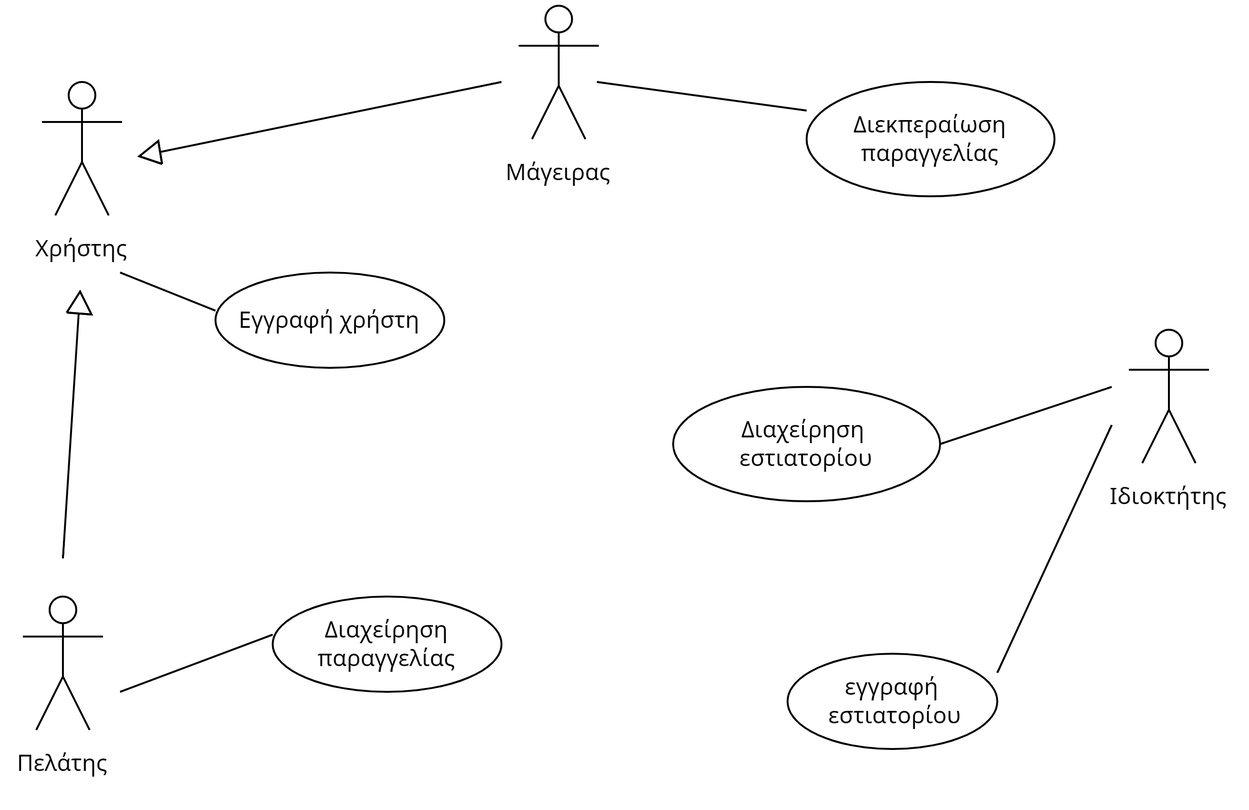
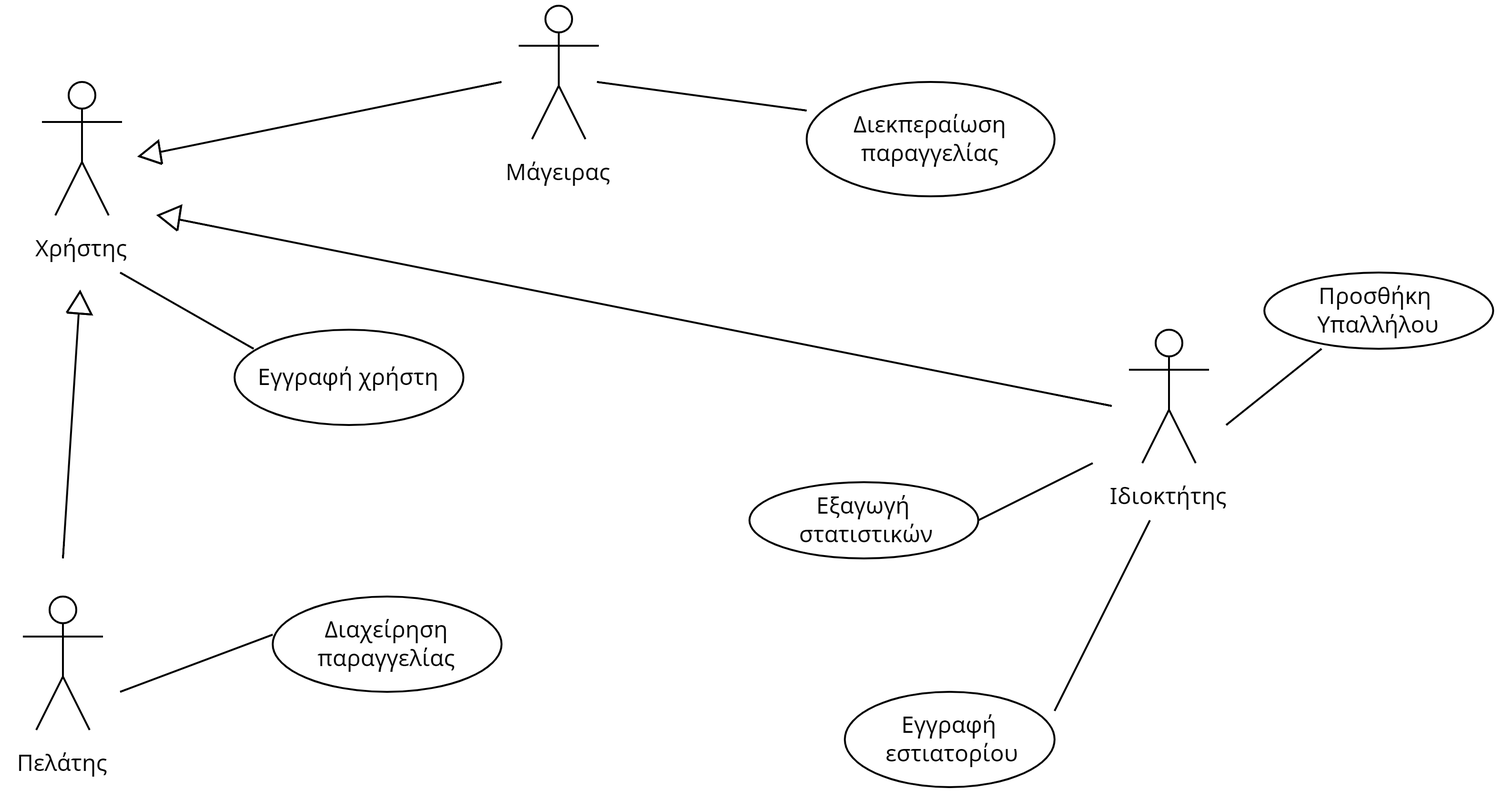
New changes on R2 domain model,usecase descriptiom and activity diagrams

diff --git a/docs/markdown/R2_use_cases_descriptions.md b/docs/markdown/R2_use_cases_descriptions.md
@@ -12,27 +12,19 @@
 
 <br/>
 
-## ***Προϋποθέσεις* :** Ο ιδιοκτήτης να έχει πρόσβαση στην εφαρμογή και να έχει τα απαραίτητα στοιχεία για την εγγραφή του εστιατορίου.
+## ***Προϋποθέσεις* :** Ο ιδιοκτήτης να είναι συνδεδεμένος στην εφαρμογή και να έχει τα απαραίτητα στοιχεία για την εγγραφή του εστιατορίου.
 
 <br/>
 
 ## ***Βασική Ροή :***
 
-## 1. Ο ιδιοκτήτης κατεβάζει την εφαρμογή εστιατορίου στην συσκευή του.
+## 1. Ο ιδιοκτήτης ανοίγει την εφαρμογή διαχείρησης εστιατορίου.
+## 2. Ο ιδιοκτήτης καταχωρεί τα στοιχεία του εστιατορίου του ( τηλέφωνο εστιατορίου , διεύθυνση, όνομα εστιατορίου, τηλέφωνο).
 
-## 2. Ο ιδιοκτήτης καταχωρεί τα προσωπικά του στοιχεία (username, ονοματεπώνυμο, τηλέφωνο, email).
+## 3. Ο ιδιοκτήτης "πατάει" την επιλογή επιβεβαίωση στοιχείων.
+## 4. Ο ιδιοκτήτης καταχωρεί τις επιλογές πιάτων και τις αντίστοιχες τιμές τους μέσα στο μενού του εστιατορίου του.
 
-## 3. Ο ιδιοκτήτης καταχωρεί τα στοιχεία του τραπεζικού του λογαριασμού για τα έσοδα του εστιατορίου.
-
-## 4. Ο ιδιοκτήτης καταχωρεί τα στοιχεία του εστιατορίου του ( τηλέφωνο εστιατορίου , διεύθυνση, όνομα εστιατορίου κτλ)
-
-## 5. Ο ιδιοκτήτης καταχωρεί τις επιλογές πιάτων και τις αντίστοιχες τιμές τους μέσα στο μενού του εστιατορίου του.
-
-## 6. Ο ιδιοκτήτης καταχωρεί τα διαθέσιμα τραπέζια του εστιατορίου.
-
-## 7. Το σύστημα δημιουργεί τα κατάλληλα QR codes για κάθε τραπέζι.
-
-## 8. Ο ιδιοκτήτης εκτυπώνει το κατάλληλο QR code για κάθε τραπέζι και τα τοποθετεί στα αντίστοιχα τραπέζια του εστιατορίου.
+## 5. Ο ιδιοκτήτης καταχωρεί τα διαθέσιμα τραπέζια του εστιατορίου.
 
 <br/>
 
@@ -50,37 +42,24 @@
 >
 > ## 2. Επαναλαμβάνεται το βήμα 2.
 
-## 3α Δεν έχουν δωθεί σωστά  στοιχεία τραπεζικού λογαριασμού.
-
-> ## 1. Το σύστημα εμφανίζει το κατάλληλο μήνυμα σφάλματος.
-
-> ## 2. Επαναλαμβάνεται το βήμα 3.
-
-## 4α Δεν έχει συμπληρωθεί κάποιο από τα υποχρεωτικά στοιχεία του εστιατορίου του.
-
-> ## 1. Το σύστημα εμφανίζει το κατάλληλο μήνυμα σφάλματος.
-
-> ## 2. Επαναλαμβάνεται το βήμα 4.
-
 <br/>
 <br/>
 <br/>
 <br/>
 <br/>
 
-# ***Τίτλος περίπτωσης χρήσης*:** Διαχείρηση εστιατορίου
+# ***Τίτλος περίπτωσης χρήσης*:** Προοσθήκη Υπαλλήλου
 
 <br/>
 
 ## ***Πρωτεύων Actor* :** Ιδιοκτήτης
 
-## ***Ενδιαφερόμενοι* :** Ιδιοκτήτης: Θέλει να μπορεί να διαχειρίζεται εύκολα την εφαμοργή του εστιατορίου, να προσθέτει τους υπαλλήλους του στο σύστημα και να μπορεί να βλέπει τα στατιστικά του εστιατορίου του.
+## ***Ενδιαφερόμενοι* :** Ιδιοκτήτης: Θέλει να μπορεί να προσθέτει εύκολα  τους υπαλλήλους του στο σύστημα του εστιατορίου. 
 ## Μάγειρας: Θέλει να μπορεί ο ιδιοκτήτης να βρεί τον λογαριασμό του για να μπορεί να τον προσθέσει στο σύστημα και να βλέπει τις παραγγελίες.
 
-## ***Προϋποθέσεις* :** Ο ιδιοκτήτης να έχει κάνει είσοδο στην εφαρμογή. Επίσης οι υπάλληλοι να έχουν κάνει εγγραφή στην εφαρμογή και ο ιδιοκτήτης να γνωρίζει τα στοιχεία τους για να τους προσθέσει στο σύστημα.
-# **Α) Προσθήκη υπαλλήλου**
-## ***Βασική ροή* :**
+## ***Προϋποθέσεις* :** Ο ιδιοκτήτης να έχει συνδεθεί στην εφαρμογή. Επίσης οι υπάλληλοι να έχουν κάνει εγγραφή στην εφαρμογή και ο ιδιοκτήτης να γνωρίζει τα στοιχεία τους για να τους προσθέσει στο σύστημα.
 
+## ***Βασική ροή* :**
 ## 1. Ο ιδιοκτήτης επιλέγει την επιλογή “Προσθήκη υπαλλήλου” στην εφαρμογή.
 
 ## 2. Ο ιδιοκτήτης εισάγει τα στοιχεία του νέου υπαλλήλου για να τον αναζητήσει (όνομα, επώνυμο, ΑΦΜ κλπ.).
@@ -104,27 +83,34 @@
 > ## 1. Το σύστημα εμφανίζει το κατάλληλο μήνυμα σφάλματος στον ιδιοκτήτη.
 
 > ## 2. Επαναλαμβάνεται το βήμα 2.
-
-## 3α. Αν ο ιδιοκτήτης αλλάξει γνώμη και δεν θέλει να προσθέσει τον νέο υπάλληλο, μπορεί να ακυρώσει τη διαδικασία προσθήκης υπαλλήλου.
-
-> ## 1.  Η ροή επιστρέφει στο βήμα 1.
-
 ## Για κάθε νέα προσθήκη υπαλλήλου από τον ιδιοκτήτη επαναλαμβάνεται το βήμα 1.
 
 <br/>
+<br/>
+<br/>
+<br/>
+<br/>
 
-# **B) Πρόσβαση σε στατιστικά στοιχεία**
+
+# ***Τίτλος περίπτωσης χρήσης* :** Εξαγωγή στατιστικών στοιχείων
+
+<br/>
+
+## **Πρωτεύων Actor* :** Ιδιοκτήτης
+
+## **Ενδιαφερόμενοι* :** Ιδιοκτήτης: Θέλει να μπορεί να παράγει ανά πάσα στιγμή τα στατιστικά του εστιατορίου του και να έχει πρόσβαση σε αυτά.
+
+## ***Προϋποθέσεις* :** Ο ιδιοκτήτης να έχει συνδεθεί στην εφαρμογή και να έχουν εισαχθεί τα δεδομένα για την παραγωγή των στατιστικών
+
 ## ***Βασική ροή* :**
+# **Α) Υπολογισμός μηνιαίων και ετήσιων εσόδων**
+## 1. Ο ιδιοκτήτης επιλέγει την επιλογή “Εξαγωγή στατιστικών στοιχείων”.
 
-## 1. Ο ιδιοκτήτης συνδέεται στην εφαρμογή.
+## 2. Η εφαρμογή ανακτά τα δεδομένα από το σύστημα με τις παραγγελίες.
 
-## 2. Ο ιδιοκτήτης επιλέγει την επιλογή “Πρόσβαση σε στατιστικά στοιχεία”.
 
-## 3. Η εφαρμογή ανακτά τα δεδομένα από το σύστημα με τις παραγγελίες.
 
-## 4. Η εφαρμογή υπολογίζει τα μηνιαία και τα ετήσια έσοδα, τον μέσο όρο εξόδων που κάνει κάθε πελάτης, τον μέσο όρο ημερησίων εσόδων και το ποσοστό ακυρωμένων παραγγελιών.
-
-## 5. Το σύστημα παρουσιάζει τα αποτελέσματα στην οθόνη του ιδιοκτήτη.
+## 4. Το σύστημα παρουσιάζει τα αποτελέσματα στην οθόνη του ιδιοκτήτη.
 
 ## ***Εναλλακτική ροή* :**
 
@@ -132,11 +118,12 @@
 
 > ## 1. Το σύστημα θα του ζητήσει να κάνει είσοδο πριν προχωρήσει στην πρόσβαση των στατιστικών στοιχείων και θα επαναληφθεί το βήμα 1.
 
-## 3α. Υπάρχει πρόβλημα με την ανάκτηση των δεδομένων από το σύστημα
 
-> ## 1. Το σύστημα θα εμφανίσει μήνυμα λάθους.
->
-> ## 2. Το σύστημα θα επιστρέφει στο βήμα 2.
+# **Β)Υπολογισμός του μέσου όρου εξόδων που κάνει κάθε πελάτης**
+
+# **Γ)Υπολογισμός του μέσου όρου ημερησίων εσόδων**
+
+# **Δ)Υπολογισμός του ποσοστού ακυρωμένων παραγγελιών**
 
 <br/>
 <br/>
@@ -154,57 +141,29 @@
 
 ## Μάγειρας : Θέλει να μπορεί να λαμβάνει έγκαιρα τις παραγγελίες από τους πελάτες.
 
-## ***Προϋποθέσεις* :** Ο πελάτης να έχει δημιουργήσει λογαριασμό στην εφαρμογή.
+## ***Προϋποθέσεις* :** Ο πελάτης να έχει συνδεθεί στην εφαρμογή.
 # **Α) Υποβολή Παραγγελίας**
 ## ***Βασική ροή* :**
+## 1. Ο πελάτης ανακατευθείνεται στην σελίδα παραγγελιών.
+## 2. Ο πελάτης επιλέγει την "προσθήκη παραγγελίας" (κουμπι '+') στην σελίδα παραγγελιών.
+## 3. Το σύστημα εμφανίζει το μενού του καταστήματος με τις επιλογές πιάτων και τις αντίστοιχες τιμές τους.
 
-## 1. Ο πελάτης συνδέεται στην εφαρμογή με τα προσωπικά του στοιχεία.
+## 4. Ο πελάτης επιλέγει τα πιάτα που θέλει και δηλώνει την ποσότητα για κάθε πιάτο.
 
-## 2. Ο πελάτης ανακατευθείνεται στην σελίδα παραγγελιών.
+## 5. Ο πελάτης επιλέγει την επιλογή "υποβολή παραγγελίας" κατέχοντας το απαραίτητο χρηματικό ποσό.
 
-## 3. Ο πελάτης επιλέγει την "προσθήκη παραγγελίας" (κουμπι '+') στην σελίδα παραγγελιών.
-
-## 4. Ο πελάτης ανακατευθείνεται στη σελίδα σάρωσης QR code.
-
-## 5. Ο πελάτης σκανάρει το QR code που βρίσκεται στο τραπέζι με το κινητό του τηλέφωνο.
-
-## 6. Το σύστημα εμφανίζει το μενού του καταστήματος με τις επιλογές πιάτων και τις αντίστοιχες τιμές τους.
-
-## 7. Ο πελάτης επιλέγει τα πιάτα που θέλει και δηλώνει την ποσότητα για κάθε πιάτο.
-
-## 8. Ο πελάτης επιλέγει την επιλογή "υποβολή παραγγελίας" κατέχοντας το απαραίτητο χρηματικό ποσό.
-
-## 9. Ενημέρωση επιτυχής υποβολής της παραγγελίας.
+## 6. Ενημέρωση επιτυχής υποβολής της παραγγελίας.
 
 </br>
 
-## Για καθε παραγγελία που υποβάλεται από τον πελάτη επαναλαμβάνεται το βήμα 2.
+## Για καθε παραγγελία που υποβάλεται από τον πελάτη επαναλαμβάνεται το βήμα 1.
 
 </br>
 
 ## ***Εναλλακτική ροή* :**
-
-## 1α. Ο πελάτης δεν έχει εισάγει όλα τα απαραίτητα στοιχεία για να συνδεθεί στην εφαρμογή.
-
-> ## 1. Εμφανίζεται μήνυμα λάθους στην οθόνη του πελάτη
->
-> ## 2. Επαναλαμβάνεται το βήμα 1.
-
-## 1β. Ο πελάτης  έχει εισάγει λανθασμένα στοιχεία για να συνδεθεί στην εφαρμογή.
-
-> ## 1. Εμφανίζεται μήνυμα λάθους στην οθόνη του πελάτη
->
-> ## 2. Επαναλαμβάνεται το βήμα 1.
-
-## 5α. Σφάλμα κατά την διαδικασία σάρωσης του QR code από το κινητό του πελάτη.
-
-> ## 1. Εμφανίζεται μήνυμα λάθους στην οθόνη του πελάτη.
->
-> ## 2. Επαναλαμβάνεται το βήμα 2.
-
-## 8α. Ο πελάτης δεν κατέχει το απαραίτητο χρηματικό ποσό της παραγγελίας που θέλει να υποβάλλει.
+## 5α. Ο πελάτης δεν κατέχει το απαραίτητο χρηματικό ποσό της παραγγελίας που θέλει να υποβάλλει.
 > ## 1. Εμφανίζεται ένα μήνυμα που τον ειδοποιεί για το μη επαρκές χρηματικό ποσό που διαθέτει.
-> ## 2. Ο πελάτης επιστρέφει στο βήμα 2.
+> ## 2. Ο πελάτης επιστρέφει στο βήμα 3.
 
 <br/>
 
@@ -254,9 +213,11 @@
 
 <br/>
 
-## ***Πρωτεύων Actor* :** Χρήστης (Μάγειρες και πελάτες)
+## ***Πρωτεύων Actor* :** Χρήστης (Μάγειρες , πελάτες και ιδιοκτήτης)
 
 ## ***Ενδιαφερόμενοι* :**
+
+## Ιδιοκτήτης: Θέλει να έχει έναν λογαριασμό για να μπορέσει στην συνέχεια να διαχειριστεί το εστιατόριό του και να το εγγράψει στην εφαρμογή.
 
 ## Πελάτης: Θέλει να έχει ένα λογαριασμό ετσι ώστε να μπορεί να χρησιμοποιήσει την εφαρμογή.
 
@@ -327,8 +288,23 @@
 >
 > ## 2. Επαναλαμβάνεται το βημα 5.
 
+# **Γ)Εγγραφή ιδιοκτήτη**
+## ***Βασική ροή* :**
+
+
+
+
+
+
+
+
+
 <br/>
 <br/>
+
+# **Δ)Σύνδεση χρήστη στην εφαρμογή**
+## ***Βασική ροή* :**
+
 
 # ***Τίτλος περίπτωσης χρήσης*:** Διεκπεραίωση παραγγελίας
 
@@ -342,49 +318,33 @@
 
 ## Μάγειρας : Θέλει να διεκπαιρεώνει την παραγγελία σε συγκεκριμένο αριθμό βημάτων.
 
-## ***Προϋποθέσεις* :** Ο μάγειρας έχει λογαριασμό και η εφαρμογή ενημερώνει τον μάγειρα για τις νέες παραγγελίες.
+## ***Προϋποθέσεις* :** Ο μάγειρας έχει συνδεθεί στην εφαρμογή και η εφαρμογή ενημερώνει τον μάγειρα για τις νέες παραγγελίες.
 
 ## ***Βασική ροή* :**
+## 1. Ο μάγειρας ανακατευθύντεται στην σελίδα παραγγελιών.
 
-## 1. Ο μάγειρας πραγματοποιεί σύνδεση στην εφαρμογή.
+## 2. Ο μάγειρας ενημερώνεται για την νέα παραγγελία (κατάσταση παραγγελίας: έχει ληφθεί).
 
-## 2. Ο μάγειρας ανακατευθύντεται στην σελίδα παραγγελιών.
+## 3. Ο μάγειρας διαλέγει την επιλογή "επιλογή παραγγελίας" όταν ξεκινάει να την ετοιμάζει (κατάσταση παραγγελίας: ετοιμάζεται).
 
-## 3. Ο μάγειρας ενημερώνεται για την νέα παραγγελία (κατάσταση παραγγελίας: έχει ληφθεί).
+## 4. Ο μάγειρας διαλέγει την επιλογή "ολοκλήρωση ετοιμασίας παραγγελίας" όταν ολοκληρώνει την ετοιμασία της παραγγελίας (κατάσταση παραγγελίας: έτοιμη).
 
-## 4. Ο μάγειρας διαλέγει την επιλογή "επιλογή παραγγελίας" όταν ξεκινάει να την ετοιμάζει (κατάσταση παραγγελίας: ετοιμάζεται).
+## 5. Η πληρωμή της παραγγελίας που ολοκληρώθηκε γίνεται αυτόματα (κατάσταση παραγγελίας: ολοκληρωμένη).
 
-## 5. Ο μάγειρας διαλέγει την επιλογή "ολοκλήρωση ετοιμασίας παραγγελίας" όταν ολοκληρώνει την ετοιμασία της παραγγελίας (κατάσταση παραγγελίας: έτοιμη).
+## 6. Η εφαρμογή στέλνει ειδοποίηση στον πελάτη για την επιτυχή πληρωμή.
 
-## 6. Η πληρωμή της παραγγελίας που ολοκληρώθηκε γίνεται αυτόματα (κατάσταση παραγγελίας: ολοκληρωμένη).
-
-## 7. Η εφαρμογή στέλνει ειδοποίηση στον πελάτη για την επιτυχή πληρωμή.
-
-## 8. Τα στοιχεία της ολοκλήρωμενης παραγγελίας που μας ενδιαφέρουν αποθηκεύονται σε αρχείο.
+## 7. Τα στοιχεία της ολοκλήρωμενης παραγγελίας που μας ενδιαφέρουν αποθηκεύονται σε αρχείο.
 
 ## ***Εναλλακτική ροή* :**
+## 2α. Ο μάγειρας δεν έχει λάβει νέες παραγγελίες.
 
-## 1α. Ο μάγειρας δεν έχει εισάγει όλα τα απαραίτητα στοιχεία για να συνδεθεί στην εφαρμογή.
-
-> ## 1. Εμφανίζεται μήνυμα λάθους στην οθόνη του μάγειρα
->
-> ## 2. Επαναλαμβάνεται το βήμα 1.
-
-## 1β. Ο μάγειρας έχει εισάγει λανθασμένα στοιχεία για να συνδεθεί στην εφαρμογή.
-
-> ## 1. Εμφανίζεται μήνυμα λάθους στην οθόνη του μάγειρα
->
-> ## 2. Επαναλαμβάνεται το βήμα 1.
-
-## 3α. Ο μάγειρας δεν έχει λάβει νέες παραγγελίες.
-
-## 5α. Η παραγγελία ακυρώνεται από τον πελάτη.
+## 4α. Η παραγγελία ακυρώνεται από τον πελάτη.
 
 > ## 1. Ο μάγειρας ενημερώνεται για την ακύρωση μέσω ειδοποίησης.
 >
 > ## 2. Η ροή επιστρέφει στο βήμα 3.
 
-## 6α. Υπήρξε σφάλμα κατά την διαδικασία αυτόματης πληρωμής της παραγγελίας.
+## 5α. Υπήρξε σφάλμα κατά την διαδικασία αυτόματης πληρωμής της παραγγελίας.
 
 > ## 1. Επαναλαμβάνεται το βήμα 6.
 
